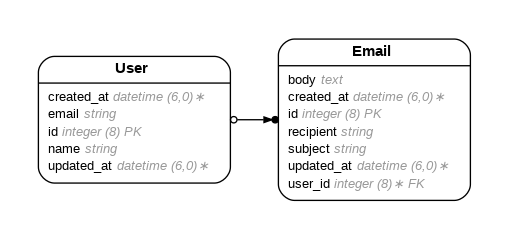
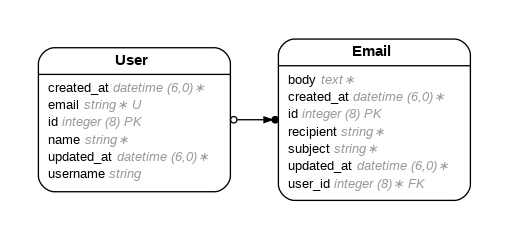
saveeeee

diff --git a/app/controllers/users_controller.rb b/app/controllers/users_controller.rb
@@ -1,10 +1,22 @@
 class UsersController < ApplicationController
   before_action :set_user, only: %i[show edit update destroy]
 
-  # GET /users
-  def index
-    @users = User.all
+  def sort_by_email
+    @users = User.order(:email)
+    render :index # Explicitly render the `index` view or a specific view
   end
+
+  def sort_by_name
+    @users = User.order(:name)
+    render :index
+  end
+
+  # GET /users
+def index
+  @users = User.all
+  @users = @users.order(name: :asc) if params[:filter] == 'name'
+  @users = @users.order(email: :asc) if params[:filter] == 'email'
+end
 
   # GET /users/:id
   def show
@@ -55,4 +67,8 @@ class UsersController < ApplicationController
   def user_params
     params.require(:user).permit(:name, :email, :password, :password_confirmation)
   end
+
 end
+
+ 
+  

diff --git a/db/schema.rb b/db/schema.rb
@@ -10,7 +10,7 @@
 #
 # It's strongly recommended that you check this file into your version control system.
 
-ActiveRecord::Schema[7.1].define(version: 2024_12_13_044245) do
+ActiveRecord::Schema[7.1].define(version: 2024_12_13_084451) do
   # These are extensions that must be enabled in order to support this database
   enable_extension "plpgsql"
 
@@ -26,9 +26,10 @@ ActiveRecord::Schema[7.1].define(version: 2024_12_13_044245) do
 
   create_table "users", force: :cascade do |t|
     t.string "email"
-    t.string "name"
+    t.string "username"
     t.datetime "created_at", null: false
     t.datetime "updated_at", null: false
+    t.string "name"
   end
 
   add_foreign_key "emails", "users"

diff --git a/app/services/openai_service.rb b/app/services/openai_service.rb
@@ -1,6 +1,7 @@
-require 'openai'
+require "ruby/openai"
+require "openai"
 
-class OpenAIService
+class OpenaiService
   def initialize
     @client = OpenAI::Client.new(access_token: ENV.fetch("OPENAI_API_KEY"))
   end
@@ -22,7 +23,7 @@ class OpenAIService
       }
     )
 
-    response['choices'].first['message']['content']
+    response["choices"].first["message"]["content"]
   end
 
   def find_unsubscribe_links(emails)
@@ -42,6 +43,6 @@ class OpenAIService
       }
     )
 
-    response['choices'].first['message']['content']
+    response["choices"].first["message"]["content"]
   end
 end

diff --git a/config/routes.rb b/config/routes.rb
@@ -1,12 +1,17 @@
 Rails.application.routes.draw do
+  resources :emails do
+    collection do
+      get :prioritize
+      get :unsubscribe_links
+    end
+  end
   resources :users do
-    resources :emails do
-      collection do
-        get :prioritize
-        get :unsubscribe_links
-      end
+    collection do
+      get 'sort_by_name', to: 'users#sort_by_name'
+      get 'sort_by_email', to: 'users#sort_by_email'
     end
   end
 
   root "users#index"
 end
+

diff --git a/app/models/user.rb b/app/models/user.rb
@@ -5,6 +5,7 @@
 #  id         :bigint           not null, primary key
 #  email      :string
 #  name       :string
+#  username   :string
 #  created_at :datetime         not null
 #  updated_at :datetime         not null
 #

diff --git a/db/migrate/20241213081338_rename_name_to_username_in_users.rb b/db/migrate/20241213081338_rename_name_to_username_in_users.rb
@@ -1,0 +1,5 @@
+class RenameNameToUsernameInUsers < ActiveRecord::Migration[7.1]
+  def change
+    rename_column :users, :name, :username
+  end
+end

diff --git a/db/migrate/20241213084451_add_name_to_users.rb b/db/migrate/20241213084451_add_name_to_users.rb
@@ -1,0 +1,5 @@
+class AddNameToUsers < ActiveRecord::Migration[7.1]
+  def change
+    add_column :users, :name, :string
+  end
+end
